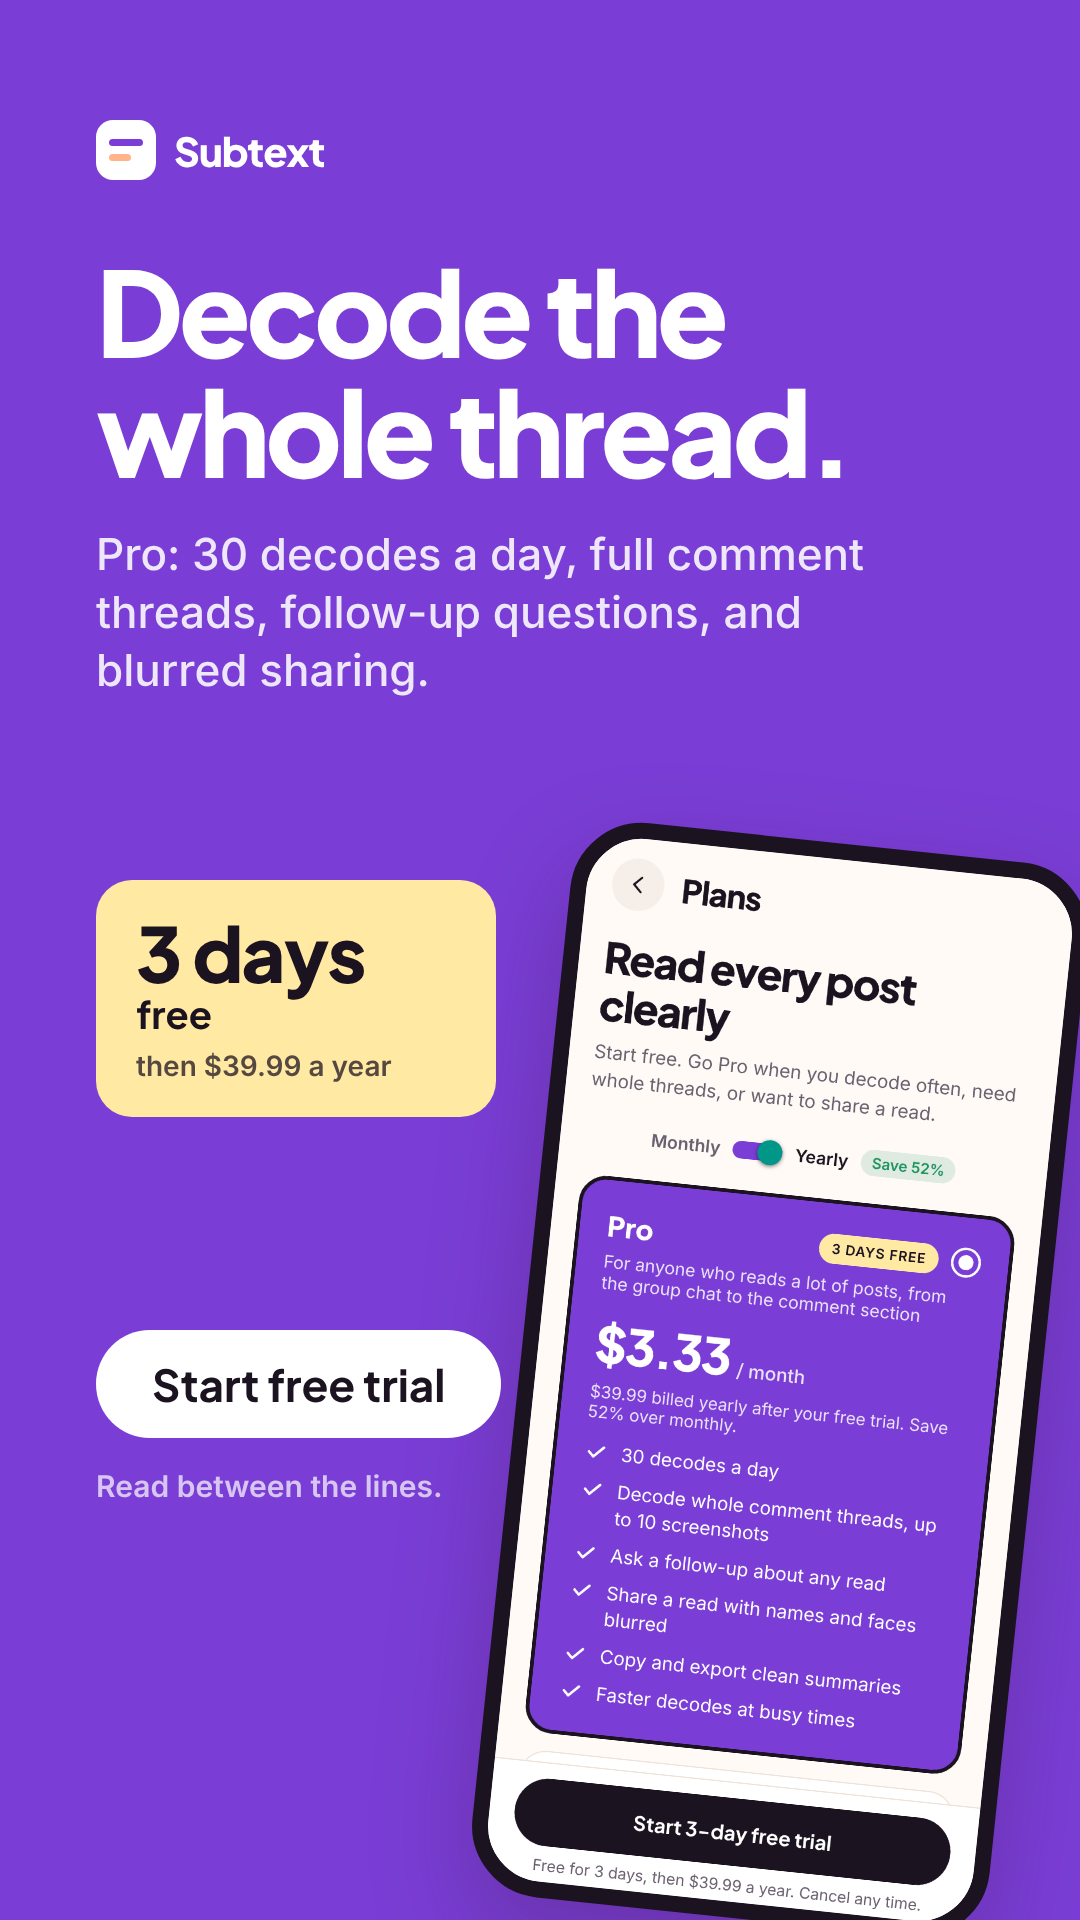
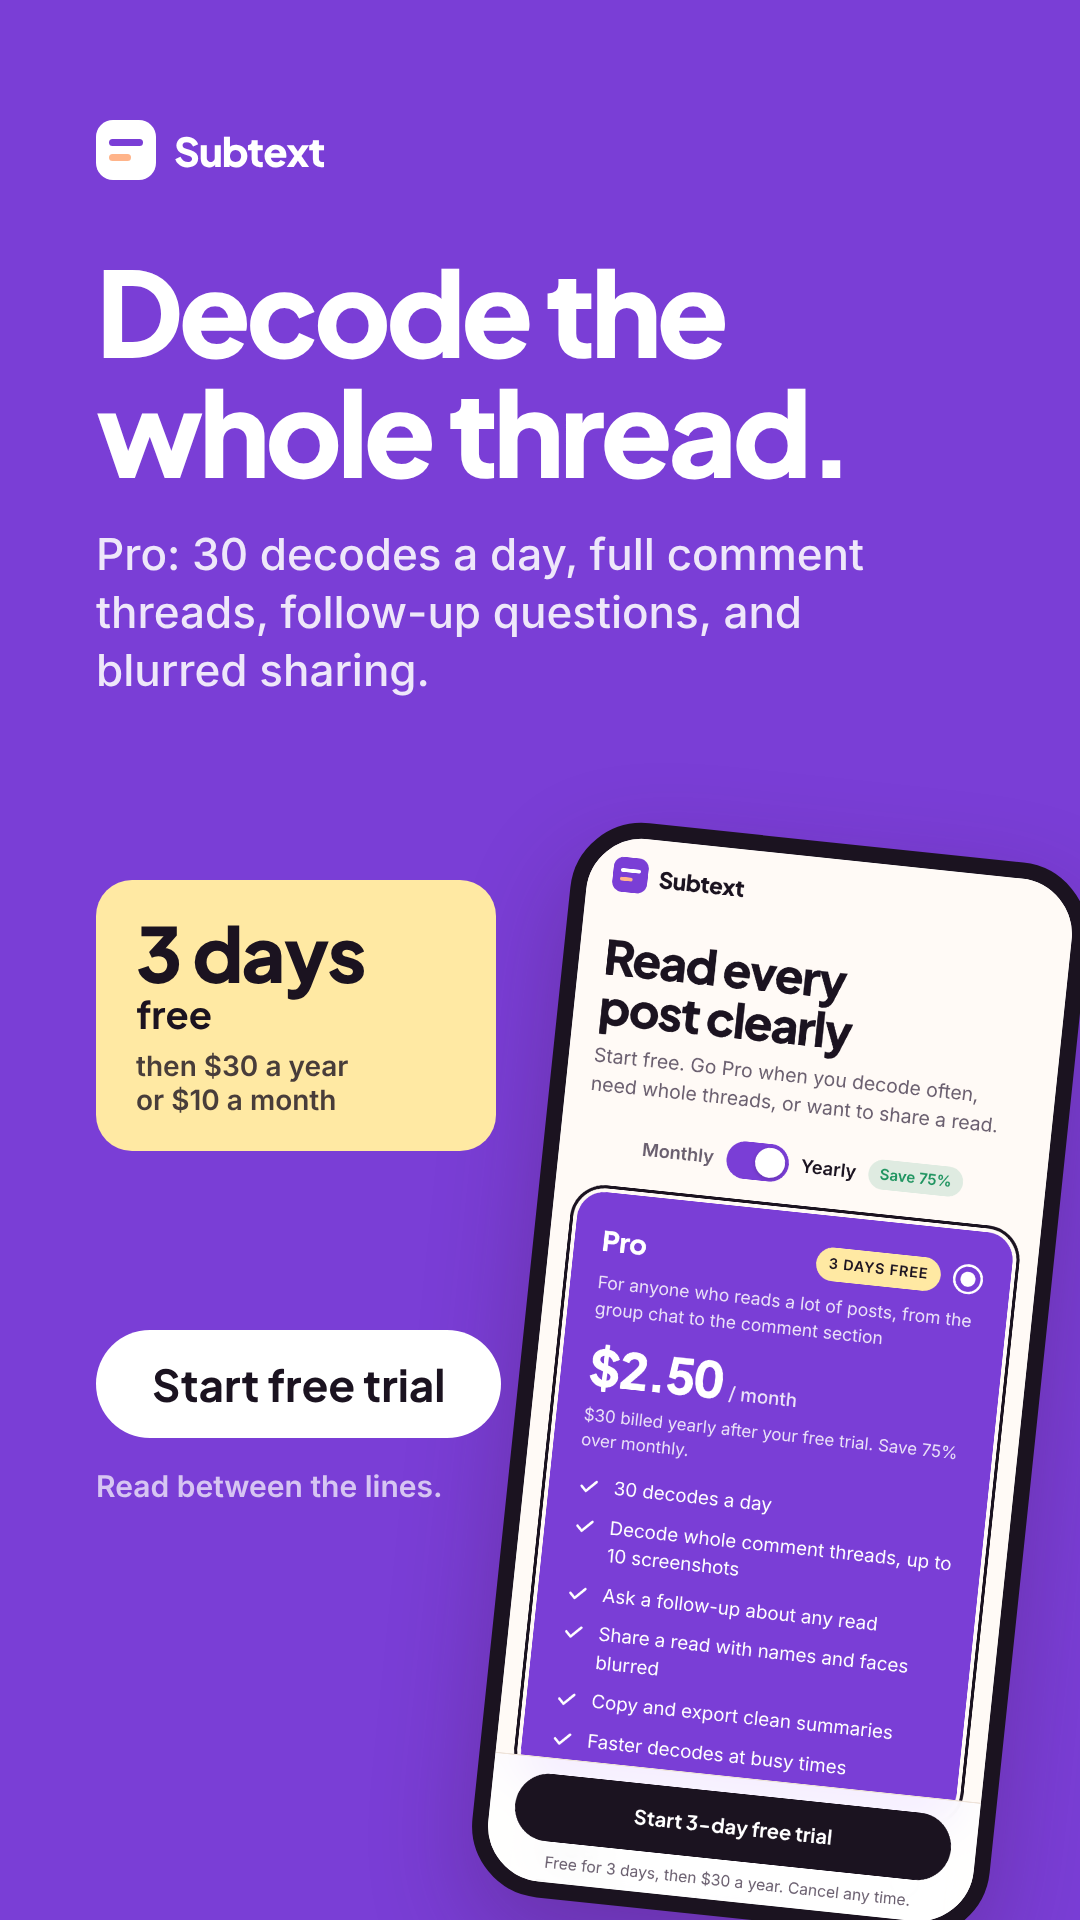
Set Pro to $10 a month or $30 a year
Updates the app's Plans screen, the Pro ad and its source screen, the
ad script, and the launch plan. Whole-dollar prices show without cents.

Claude-Session: https://claude.ai/code/session_01EqzuJmzqRZJHdxvpcMV99t

Changed region(s): [[0.4583, 0.4375, 0.9472, 1.0], [0.0917, 0.5312, 0.4583, 0.625]]

diff --git a/mobile/src/app/plans.tsx b/mobile/src/app/plans.tsx
@@ -10,13 +10,13 @@ import { fonts, useTheme } from "../lib/theme";
 // Google Play billing (through RevenueCat) before launch. The trial length itself is set on
 // the subscription products in App Store Connect and Google Play Console.
 const PRO = {
-  monthly: 6.99,
-  yearly: 39.99,
+  monthly: 10,
+  yearly: 30,
   trialDays: 3,
   features: ["30 decodes a day", "Decode whole comment threads, up to 10 screenshots", "Ask a follow-up about any read", "Share a read with names and faces blurred", "Copy and export clean summaries", "Faster decodes at busy times"],
 };
 const FREE_FEATURES = ["3 decodes a day", "The full read: meaning, aim, evidence", "History kept on your phone"];
-const money = (n: number) => `$${n.toFixed(2)}`;
+const money = (n: number) => `$${Number.isInteger(n) ? n : n.toFixed(2)}`;
 const SAVE = Math.round((1 - PRO.yearly / (PRO.monthly * 12)) * 100);
 
 const FAQ = [

diff --git a/docs/launch-plan.md b/docs/launch-plan.md
@@ -7,7 +7,7 @@ Everything in one place: what's built, what's next and who does it, plus marketi
 | Plan | Price | Decodes a day | Trial |
 | --- | --- | --- | --- |
 | Free | $0 | 3 | None |
-| Pro | $6.99 a month or $39.99 a year | 30 | 3 days free |
+| Pro | $10 a month or $30 a year | 30 | 3 days free |
 
 The look is sunset, light touch: warm white background, violet as the lead color, peach and butter-yellow cards, black buttons. The example story is a generic story with no platform branding.
 
@@ -84,7 +84,7 @@ Subject: Subtext is live
 
 **4. Pro nudge, after someone hits the free limit twice**
 Subject: Out of free decodes again?
-> Pro gives you 30 decodes a day, whole-thread reads, and blurred share cards. Try it free for 3 days, then $6.99 a month or $39.99 a year. Cancel any time.
+> Pro gives you 30 decodes a day, whole-thread reads, and blurred share cards. Try it free for 3 days, then $10 a month or $30 a year. Cancel any time.
 
 **5. Monthly newsletter, "Decoded"**
 Subject: 3 posts, decoded

diff --git a/marketing/ad-scripts.md b/marketing/ad-scripts.md
@@ -95,7 +95,7 @@ Still: `subtext-ad-07-pro.png`
 | --- | --- | --- |
 | 0 to 2 s | A long comment thread scrolls by | "One post is easy. A whole comment section?" |
 | 2 to 10 s | Multiple screenshots go in, one read comes out | "Subtext Pro reads the whole thread, answers follow-up questions, and lets you share a read with names blurred." |
-| 10 to 15 s | "3 days free, then $39.99 a year" | "Try Pro free for three days." |
+| 10 to 15 s | "3 days free, then $30 a year or $10 a month" | "Try Pro free for three days." |
 
 Caption: For the comment section detectives. #commentsection #pro
 
